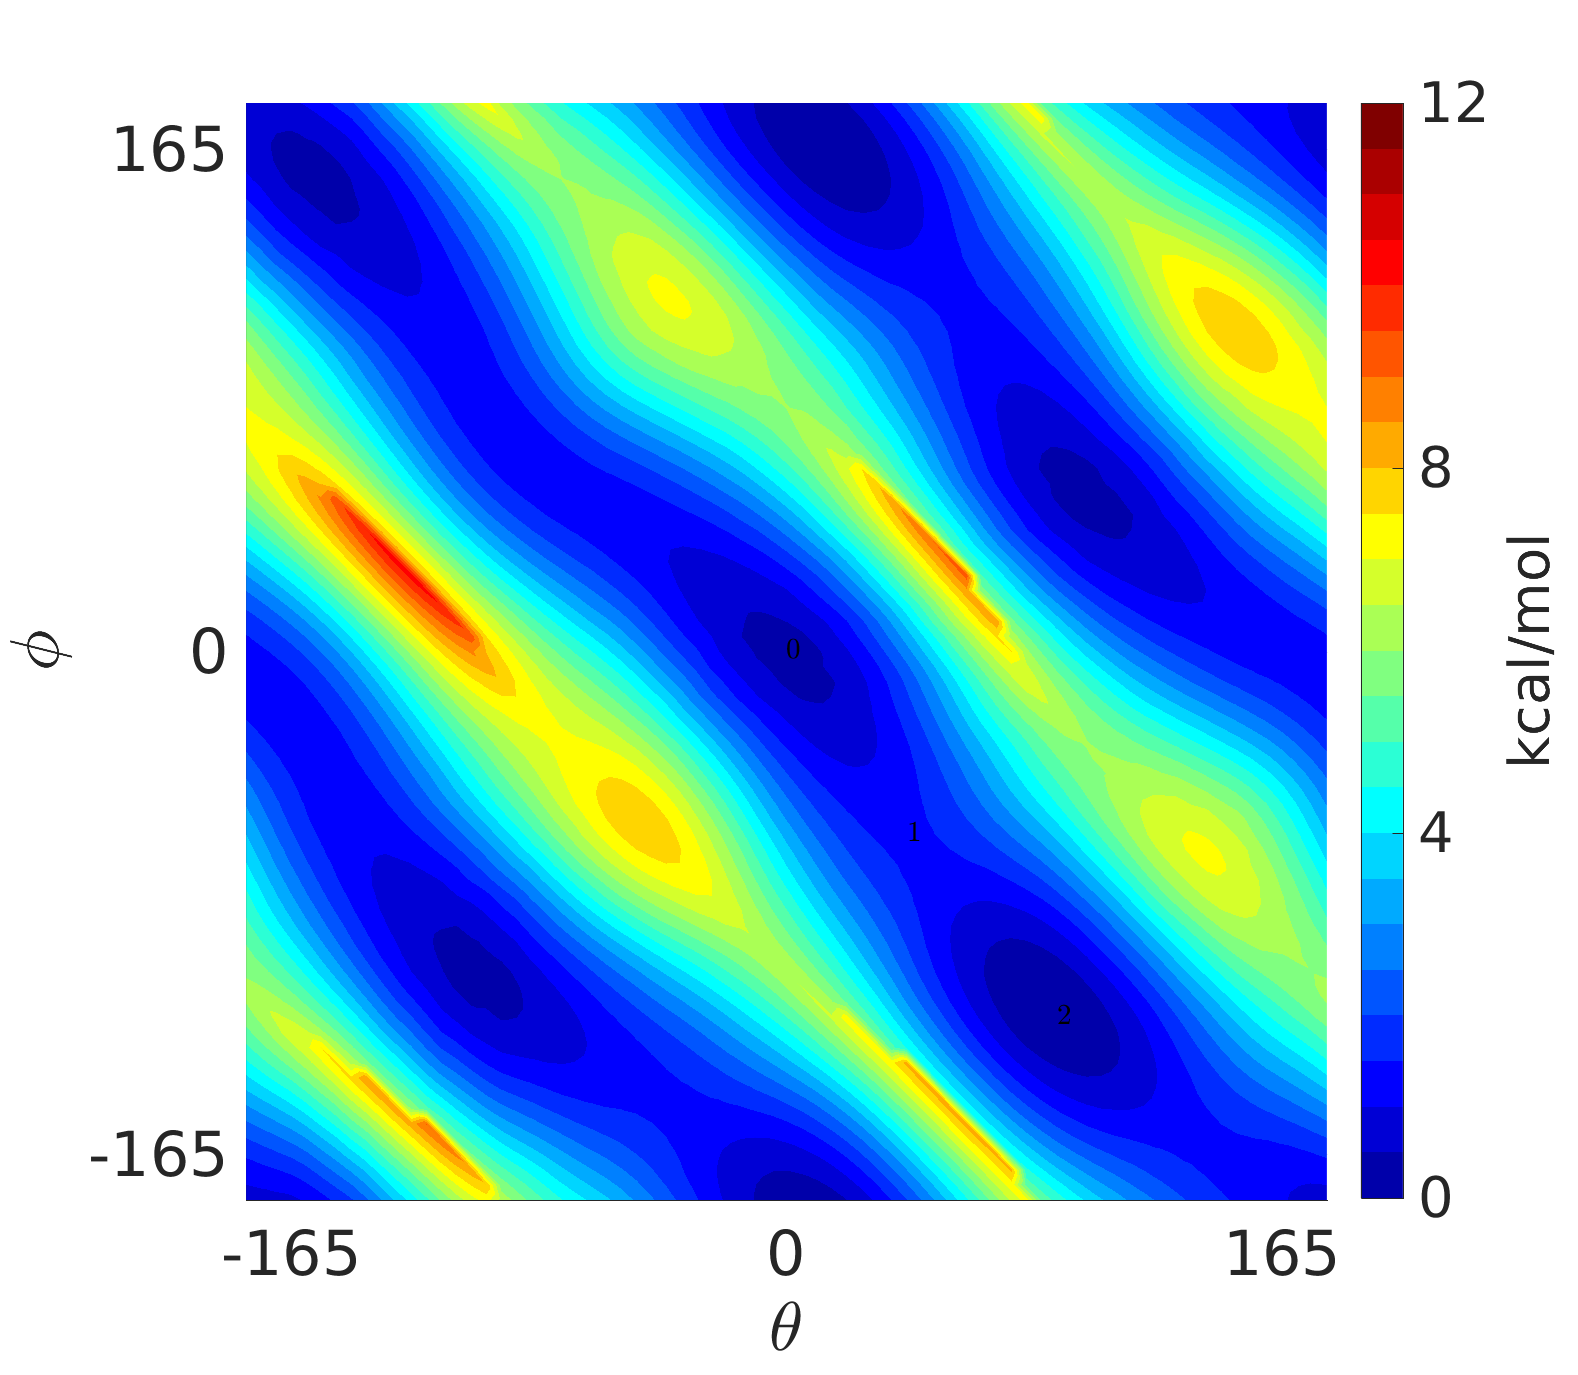
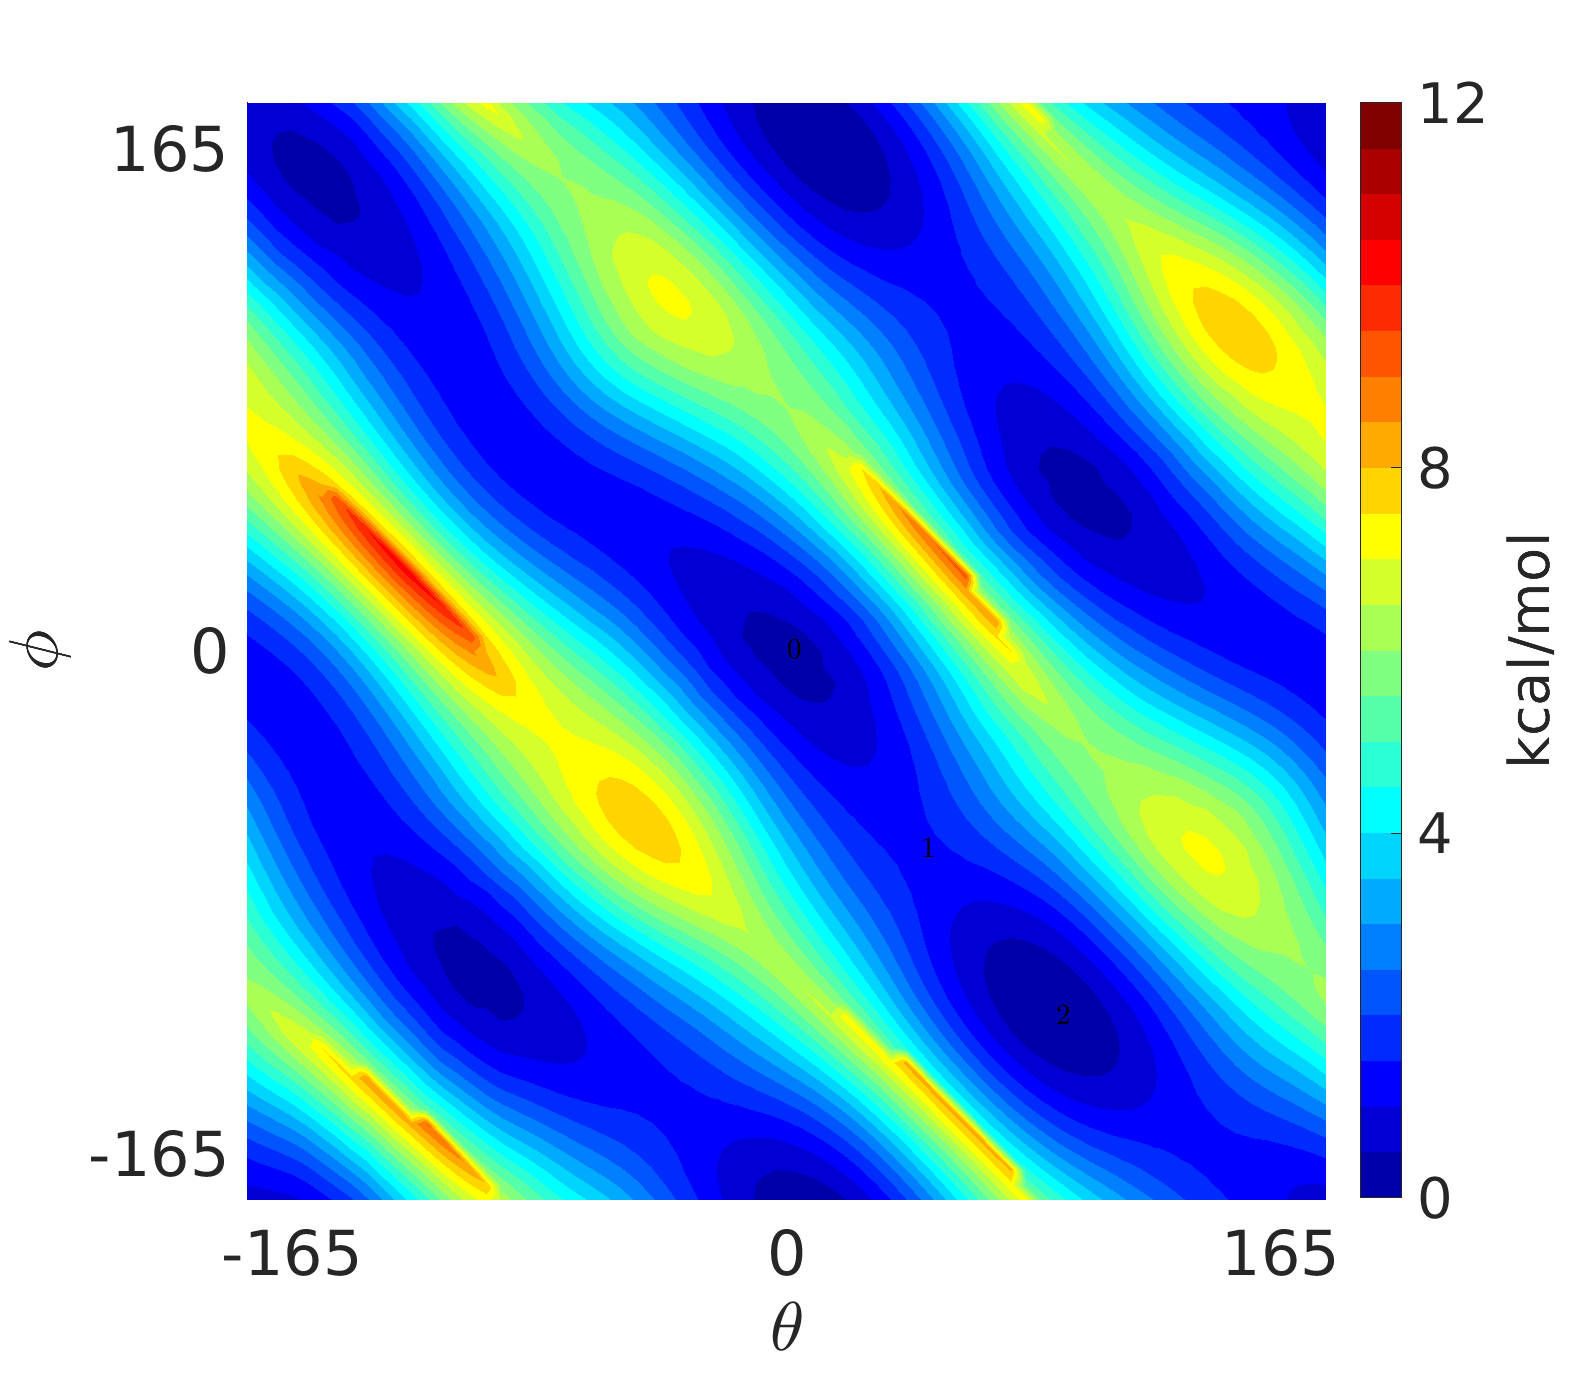
starting geom updated

diff --git a/plot/plotPATH.m b/plot/plotPATH.m
@@ -1,5 +1,4 @@
 clc, clear, close all;
-n = 36;
 
 E(1,:) = [-765.8625284, -765.8593637, -765.8626253];
 E(2,:) = [-805.1941033, -805.1899081, -805.1983216];
@@ -15,13 +14,53 @@ E(4,:) = (E(4,:)-min(E(4,:)))*627.509;
 E(5,:) = (E(5,:)-min(E(5,:)))*627.509;
 E(6,:) = (E(6,:)-min(E(6,:)))*627.509;
 
-hx = tight_subplot(1,3,[0.040, 0.020],[0.10, 0.03],[0.05 0.01]);
-% axes(hx(1)); plot(1:3, E(1,:),  '-r^', 'MarkerFaceColor', 'r', 'MarkerEdgeColor', 'k','MarkerSize', 7, 'linewidth', 1.5); xlim([0.7,3.3]); ylim([0,8]); xticks([1:3]); xticklabels(['[        ]'; '[        ]'; '[        ]']);                  legend('1a'); hold on; ylabel('\textbf{kcal/mol}', 'Interpreter', 'latex', 'FontSize', 15);
-% axes(hx(2)); plot(1:3, E(2,:),  '-ro', 'MarkerFaceColor', 'r', 'MarkerEdgeColor', 'k','MarkerSize', 7, 'linewidth', 1.0); xlim([0.7,3.3]); ylim([0,8]); xticks([1:3]); xticklabels(['[        ]'; '[        ]'; '[        ]']); yticklabels([]); legend('1b'); hold on;
-% axes(hx(3)); plot(1:3, E(3,:),  '-rs', 'MarkerFaceColor', 'r', 'MarkerEdgeColor', 'k','MarkerSize', 9, 'linewidth', 1.0); xlim([0.7,3.3]); ylim([0,8]); xticks([1:3]); xticklabels(['[        ]'; '[        ]'; '[        ]']); yticklabels([]); legend('1c'); hold on;
-% set(gcf, 'Position', [0, 0, 1200, 516]);
+rcoord  = 1.0:0.01:3.0;
+EE(1,:) = pchipd(1:3, E(1,:), [0.0, 0.0, 0.0], rcoord);
+EE(2,:) = pchipd(1:3, E(2,:), [0.0, 0.0, 0.0], rcoord);
+EE(3,:) = pchipd(1:3, E(3,:), [0.0, 0.0, 0.0], rcoord);
+EE(4,:) = pchipd(1:3, E(4,:), [0.0, 0.0, 0.0], rcoord);
+EE(5,:) = pchipd(1:3, E(5,:), [0.0, 0.0, 0.0], rcoord);
+EE(6,:) = pchipd(1:3, E(6,:), [0.0, 0.0, 0.0], rcoord);
 
-axes(hx(1)); plot(1:3, E(4,:),  '-b^', 'MarkerFaceColor', 'b', 'MarkerEdgeColor', 'k','MarkerSize', 7, 'linewidth', 1.5); xlim([0.7,3.3]); ylim([0,6]); xticks([1:3]); xticklabels(['[        ]'; '[        ]'; '[        ]']);                  legend('1d'); hold on; ylabel('\textbf{kcal/mol}', 'Interpreter', 'latex', 'FontSize', 15);
-axes(hx(2)); plot(1:3, E(5,:),  '-bo', 'MarkerFaceColor', 'b', 'MarkerEdgeColor', 'k','MarkerSize', 7, 'linewidth', 1.0); xlim([0.7,3.3]); ylim([0,6]); xticks([1:3]); xticklabels(['[        ]'; '[        ]'; '[        ]']); yticklabels([]); legend('1e'); hold on;
-axes(hx(3)); plot(1:3, E(6,:),  '-bs', 'MarkerFaceColor', 'b', 'MarkerEdgeColor', 'k','MarkerSize', 9, 'linewidth', 1.0); xlim([0.7,3.3]); ylim([0,6]); xticks([1:3]); xticklabels(['[        ]'; '[        ]'; '[        ]']); yticklabels([]); legend('1f'); hold on;
-set(gcf, 'Position', [0, 0, 1200, 400]);
+hx = tight_subplot(1,2,[0.040, 0.020],[0.03, 0.03],[0.08 0.01]);
+
+axes(hx(1)); 
+plot(rcoord, EE(1,:),  ':r', rcoord, EE(2,:),  '-r',  rcoord, EE(3,:),  '-.r', 'linewidth', 1.5); hold on;
+scatter(1:3, E(1,:), 'ro', 'MarkerEdgeColor', 'k', 'MarkerFaceColor', 'r');
+scatter(1:3, E(2,:), 'ro', 'MarkerEdgeColor', 'k', 'MarkerFaceColor', 'r');
+scatter(1:3, E(3,:), 'ro', 'MarkerEdgeColor', 'k', 'MarkerFaceColor', 'r');
+set(gca, 'fontSize', 15)
+
+xlim([0.7,3.3]);
+xlabel('');
+xticks([1:3]); 
+xticklabels([]);
+ylim([0,8]);
+ylabel('\textbf{kcal/mol}', 'Interpreter', 'latex', 'FontSize', 17);
+yticks(0:8);
+legend(["2a", "2b", "2c"]); hold on; 
+
+
+axes(hx(2)); 
+plot(rcoord, EE(4,:),  ':b', rcoord, EE(5,:),  '-b',  rcoord, EE(6,:),  '-.b', 'linewidth', 1.5); hold on;
+scatter(1:3, E(4,:), 'bo', 'MarkerEdgeColor', 'k', 'MarkerFaceColor', 'b');
+scatter(1:3, E(5,:), 'bo', 'MarkerEdgeColor', 'k', 'MarkerFaceColor', 'b');
+scatter(1:3, E(6,:), 'bo', 'MarkerEdgeColor', 'k', 'MarkerFaceColor', 'b');
+set(gca, 'fontSize', 15)
+
+xlim([0.7,3.3]);
+xlabel('');
+xticks([1:3]); 
+xticklabels([]);
+ylim([0,8]); 
+ylabel('');
+yticks(0:8);
+yticklabels([])
+legend(["2d", "2e", "2f"]); hold on; 
+
+set(gcf, 'Position', [0, 0, 800, 500]);
+
+% axes(hx(1)); plot(1:3, E(4,:),  '-b^', 'MarkerFaceColor', 'b', 'MarkerEdgeColor', 'k','MarkerSize', 7, 'linewidth', 1.5); xlim([0.7,3.3]); ylim([0,6]); xticks([1:3]); xticklabels(['[        ]'; '[        ]'; '[        ]']);                  legend('1d'); hold on; ylabel('\textbf{kcal/mol}', 'Interpreter', 'latex', 'FontSize', 15);
+% axes(hx(2)); plot(1:3, E(5,:),  '-bo', 'MarkerFaceColor', 'b', 'MarkerEdgeColor', 'k','MarkerSize', 7, 'linewidth', 1.0); xlim([0.7,3.3]); ylim([0,6]); xticks([1:3]); xticklabels(['[        ]'; '[        ]'; '[        ]']); yticklabels([]); legend('1e'); hold on;
+% axes(hx(3)); plot(1:3, E(6,:),  '-bs', 'MarkerFaceColor', 'b', 'MarkerEdgeColor', 'k','MarkerSize', 9, 'linewidth', 1.0); xlim([0.7,3.3]); ylim([0,6]); xticks([1:3]); xticklabels(['[        ]'; '[        ]'; '[        ]']); yticklabels([]); legend('1f'); hold on;
+% set(gcf, 'Position', [0, 0, 1200, 400]);

diff --git a/plot/plot_all.m b/plot/plot_all.m
@@ -1,7 +1,7 @@
 close all;
 
-% namelist = ['1a'; '1b'; '1c'; '1d'; '1e'; '1f'];
-namelist = ["1g"; "1h"; "1i"; "1j"; "1k"; "1l"];
+namelist = ["2a"; "2b"; "2c"; "2d"; "2e"; "2f"];
+% namelist = ["1g"; "1h"; "1i"; "1j"; "1k"; "1l"];
 
 set(0,'DefaultTextInterpreter', 'latex')
 ha = tight_subplot(2,3,[0.040, 0.040],[0.10, 0.03],[0.065 0.07]);
@@ -22,7 +22,7 @@ t.FontSize=32;
 %-------------------------------------------
 labels=LB(:,:,1);
 hold on
-plot3(labels(:,1)', labels(:,2)', ones(size(labels(:,1)))'*10, ':*w', 'LineWidth', 1.5);
+plot3(labels(:,1)', labels(:,2)', ones(size(labels(:,1)))'*10, ':ow', 'LineWidth', 1.5, 'MarkerSize', 7);
 
 %{
 for i=1:length(labels)
@@ -51,7 +51,8 @@ t.FontSize=32;
 %-------------------------------------------
 labels=LB(:,:,2);
 hold on
-plot3(labels(:,1)', labels(:,2)', ones(size(labels(:,1)))'*10, ':*w', 'LineWidth', 1.5);
+plot3(labels(:,1)', labels(:,2)', ones(size(labels(:,1)))'*10, ':ow', 'LineWidth', 1.5, 'MarkerSize', 7);
+
 
 %{
 for i=1:length(labels)
@@ -80,7 +81,7 @@ t.FontSize=32;
 %-------------------------------------------
 labels=LB(:,:,3);
 hold on
-plot3(labels(:,1)', labels(:,2)', ones(size(labels(:,1)))'*10, ':*w', 'LineWidth', 1.5);
+plot3(labels(:,1)', labels(:,2)', ones(size(labels(:,1)))'*10, ':ow', 'LineWidth', 1.5, 'MarkerSize', 7);
 
 %{
 for i=1:length(labels)
@@ -109,7 +110,7 @@ t.FontSize=32;
 %-------------------------------------------
 labels=LB(:,:,4);
 hold on
-plot3(labels(:,1)', labels(:,2)', ones(size(labels(:,1)))'*10, ':*w', 'LineWidth', 1.5);
+plot3(labels(:,1)', labels(:,2)', ones(size(labels(:,1)))'*10, ':ow', 'LineWidth', 1.5, 'MarkerSize', 7);
 
 %{
 for i=1:length(labels)
@@ -139,7 +140,7 @@ t.FontSize=32;
 %-------------------------------------------
 labels=LB(:,:,5);
 hold on
-plot3(labels(:,1)', labels(:,2)', ones(size(labels(:,1)))'*10, ':*w', 'LineWidth', 1.5);
+plot3(labels(:,1)', labels(:,2)', ones(size(labels(:,1)))'*10, ':ow', 'LineWidth', 1.5, 'MarkerSize', 7);
 
 %{
 for i=1:length(labels)
@@ -168,7 +169,7 @@ t.FontSize=32;
 %-------------------------------------------
 labels=LB(:,:,6);
 hold on
-plot3(labels(:,1)', labels(:,2)', ones(size(labels(:,1)))'*10, ':*w', 'LineWidth', 1.5);
+plot3(labels(:,1)', labels(:,2)', ones(size(labels(:,1)))'*10, ':ow', 'LineWidth', 1.5, 'MarkerSize', 7);
 
 %{
 for i=1:length(labels)
@@ -191,4 +192,4 @@ set(gca,'FontSize',24)
 
 set(gcf, 'Position', [0, 0, 1600, 2000]);
 
-print('~/1g-1l', '-dpng', '-r300');
+print('~/2a-2f', '-dpng', '-r300');

diff --git a/plot/plotPES.m b/plot/plotPES.m
@@ -2,8 +2,8 @@ close all;
 
 n = 72;
 
-system = '11d11';
-geoms  = 'critical';
+% system = '10n01';
+geoms  = 'connect';
 showpath = true;
 
 labels = [];
@@ -48,7 +48,7 @@ if (showpath==true)
             case '1111'
                 labels = [[  0,  0]; [ 55, -40]; [ 95,  -90]];
             case '10n01'
-                labels = [[  0,  0]; [ 40, -60]; [ 90, -120]];
+                labels = [[  0,  0]; [ 45, -65]; [ 90, -120]];
             case '11n01'
                 labels = [[  0,  0]; [ 70, -90]; [130, -145]];
             case '11n11'
@@ -74,6 +74,9 @@ P = reshape(A(:,3), [n,n])';
 P = (P-min(min(P)))*627.509;
 
 [Xe,Ye,Ve] = meshBoard(X,Y,P);
+
+[Yf,Xf] = meshgrid(-180:179, -180:179);
+Pf = interp2(Ye, Xe, Ve, Yf, Xf, 'spline');
 
 % [Ye,Xe] = deal(Xe,Ye); % swap
 

diff --git a/plot/read_all.m b/plot/read_all.m
@@ -1,29 +1,35 @@
 system = '1001';
 plotPES;
 VE(:,:,1) = Ve;
+VF(:,:,1) = Pf;
 LB(1:size(labels,1),:,1) = labels;
 
-system = '1301';
+system = '1101';
 plotPES;
 VE(:,:,2) = Ve;
+VF(:,:,2) = Pf;
 LB(1:size(labels,1),:,2) = labels;
 
-system = '1331';
+system = '1111';
 plotPES;
 VE(:,:,3) = Ve;
+VF(:,:,3) = Pf;
 LB(1:size(labels,1),:,3) = labels;
 
-system = '10d01';
+system = '10n01';
 plotPES;
 VE(:,:,4) = Ve;
+VF(:,:,4) = Pf;
 LB(1:size(labels,1),:,4) = labels;
 
-system = '11d01';
+system = '11n01';
 plotPES;
 VE(:,:,5) = Ve;
+VF(:,:,5) = Pf;
 LB(1:size(labels,1),:,5) = labels;
 
-system = '11d11';
+system = '11n11';
 plotPES;
 VE(:,:,6) = Ve;
+VF(:,:,6) = Pf;
 LB(1:size(labels,1),:,6) = labels;

diff --git a/plot/set_range.m b/plot/set_range.m
@@ -1,8 +1,8 @@
 set(gca,'xlim',[-180 180]);
 set(gca,'ylim',[-180 180]);
 
-% set(gca,'XTick',[-165:165:165]);
-% set(gca,'YTick',[-165:165:165]);
+set(gca,'XTick',[-165:165:165]);
+set(gca,'YTick',[-165:165:165]);
 
-set(gca,'XTick',[-180:180:180]);
-set(gca,'YTick',[-180:180:180]);
+% set(gca,'XTick',[-180:180:180]);
+% set(gca,'YTick',[-180:180:180]);
